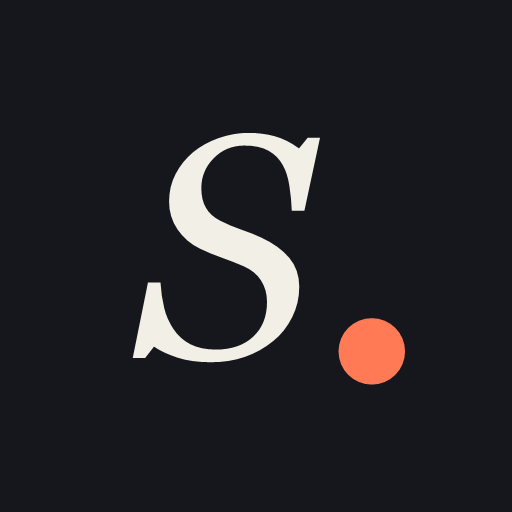
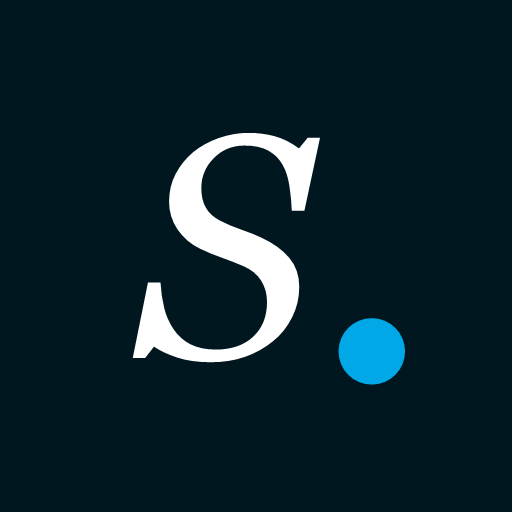
Palette: white / 00171f / 003459 / 007ea7 / 00a8e8

Changed region(s): [[0.25, 0.25, 0.625, 0.7188], [0.6562, 0.625, 0.8125, 0.75]]

diff --git a/style.css b/style.css
@@ -1,18 +1,21 @@
 /* SayFirst — daily "point first" drill. Serif only on the wordmark and hero; UI is system sans; scores in mono */
+/* Palette (user-picked): #ffffff · #00171f · #003459 · #007ea7 · #00a8e8. Tints are mixes of these five only */
 :root {
-  --paper: #f6f4ee;
-  --card: #fffdf8;
-  --ink: #16171d;
-  --ink-soft: #5c5f6b;
-  --line: #e6e2d6;
-  --accent: #e4572e;
-  --accent-soft: #fbe9e2;
-  --accent-ink: #b73f1c;
-  --good: #2f7d4f;
-  --good-soft: #e3f1e7;
-  --warn: #b7791f;
-  --warn-soft: #faf0d9;
-  --danger: #b73f1c;
+  --paper: #ffffff;
+  --card: color-mix(in srgb, #00a8e8 5%, #ffffff);
+  --ink: #00171f;
+  --ink-soft: #003459;
+  --line: color-mix(in srgb, #007ea7 18%, #ffffff);
+  --accent: #007ea7;
+  --accent-soft: color-mix(in srgb, #00a8e8 14%, #ffffff);
+  --accent-ink: #003459;
+  --good: #007ea7;
+  --good-soft: color-mix(in srgb, #00a8e8 22%, #ffffff);
+  --warn: #003459;
+  --warn-soft: color-mix(in srgb, #003459 12%, #ffffff);
+  --danger: #003459;
+  --primary: #003459;
+  --dot: #00a8e8;
   --radius: 14px;
   --serif: ui-serif, "New York", Georgia, serif;
   --mono: ui-monospace, "SF Mono", Menlo, monospace;
@@ -21,19 +24,21 @@
 }
 @media (prefers-color-scheme: dark) {
   :root {
-    --paper: #16171d;
-    --card: #1f2028;
-    --ink: #f2efe6;
-    --ink-soft: #a3a5b0;
-    --line: #2e3039;
-    --accent: #ff7a55;
-    --accent-soft: #3a2620;
-    --accent-ink: #ff9a7c;
-    --good: #7cc79a;
-    --good-soft: #1f3327;
-    --warn: #e0b35c;
-    --warn-soft: #3a3120;
-    --danger: #ff8a6a;
+    --paper: #00171f;
+    --card: color-mix(in srgb, #003459 45%, #00171f);
+    --ink: #ffffff;
+    --ink-soft: color-mix(in srgb, #ffffff 65%, #00a8e8);
+    --line: color-mix(in srgb, #007ea7 35%, #00171f);
+    --accent: #00a8e8;
+    --accent-soft: color-mix(in srgb, #007ea7 35%, #00171f);
+    --accent-ink: #00a8e8;
+    --good: #00a8e8;
+    --good-soft: color-mix(in srgb, #00a8e8 25%, #00171f);
+    --warn: color-mix(in srgb, #ffffff 60%, #00a8e8);
+    --warn-soft: color-mix(in srgb, #003459 60%, #00171f);
+    --danger: #00a8e8;
+    --primary: #00a8e8;
+    --dot: #00a8e8;
   }
 }
 
@@ -62,7 +67,7 @@ a { color: var(--accent-ink); }
   transition: var(--press);
 }
 .brand:active { transform: scale(0.96); }
-.brand-dot { color: var(--accent); }
+.brand-dot { color: var(--dot); }
 .streak {
   flex: 1; font-family: var(--mono); font-size: 12px; letter-spacing: 0.04em;
   color: var(--ink-soft);
@@ -138,7 +143,7 @@ a { color: var(--accent-ink); }
 }
 .btn:active:not(:disabled) { transform: scale(0.97); }
 .btn.swapping { filter: blur(2px); opacity: 0.6; }
-.btn-primary { background: var(--ink); border-color: var(--ink); color: var(--paper); font-weight: 600; }
+.btn-primary { background: var(--primary); border-color: var(--primary); color: #ffffff; font-weight: 600; }
 .btn-big { width: 100%; padding: 14px; font-size: 17px; margin-top: 12px; }
 .btn-small { padding: 6px 12px; font-size: 13px; }
 .btn-danger { color: var(--danger); border-color: var(--danger); background: none; }
@@ -168,7 +173,7 @@ textarea:focus, input:focus { outline: 2px solid var(--accent); outline-offset: 
   border: 0; background: var(--card); color: var(--ink-soft); padding: 7px 14px; font-size: 14px; cursor: pointer; font-family: inherit;
   transition: background-color 150ms ease, color 150ms ease;
 }
-.seg button.active { background: var(--ink); color: var(--paper); }
+.seg button.active { background: var(--primary); color: #ffffff; }
 
 /* Practice */
 .practice-head { display: flex; gap: 6px; margin-bottom: 4px; }
@@ -200,9 +205,9 @@ textarea:focus, input:focus { outline: 2px solid var(--accent); outline-offset: 
   width: 26px; height: 26px; border-radius: 8px; display: inline-flex; align-items: center; justify-content: center;
   font-family: var(--mono); font-size: 12px; font-weight: 600;
 }
-.crit-mark.s2 { background: var(--good-soft); color: var(--good); }
-.crit-mark.s1 { background: var(--warn-soft); color: var(--warn); }
-.crit-mark.s0 { background: var(--accent-soft); color: var(--accent-ink); }
+.crit-mark.s2 { background: #00a8e8; color: #ffffff; }
+.crit-mark.s1 { background: color-mix(in srgb, #007ea7 22%, var(--card)); color: var(--accent-ink); }
+.crit-mark.s0 { background: color-mix(in srgb, var(--ink) 10%, var(--card)); color: var(--ink-soft); }
 .crit strong { font-size: 14.5px; display: block; }
 .crit p { font-size: 13.5px; color: var(--ink-soft); margin-top: 2px; line-height: 1.5; }
 .model-line {

diff --git a/index.html b/index.html
@@ -12,8 +12,8 @@
 <meta name="apple-mobile-web-app-title" content="SayFirst">
 <link rel="apple-touch-icon" href="icon-180.png">
 <link rel="icon" type="image/png" href="icon-180.png">
-<meta name="theme-color" content="#f6f4ee" media="(prefers-color-scheme: light)">
-<meta name="theme-color" content="#16171d" media="(prefers-color-scheme: dark)">
+<meta name="theme-color" content="#ffffff" media="(prefers-color-scheme: light)">
+<meta name="theme-color" content="#00171f" media="(prefers-color-scheme: dark)">
 <link rel="stylesheet" href="style.css">
 </head>
 <body>
